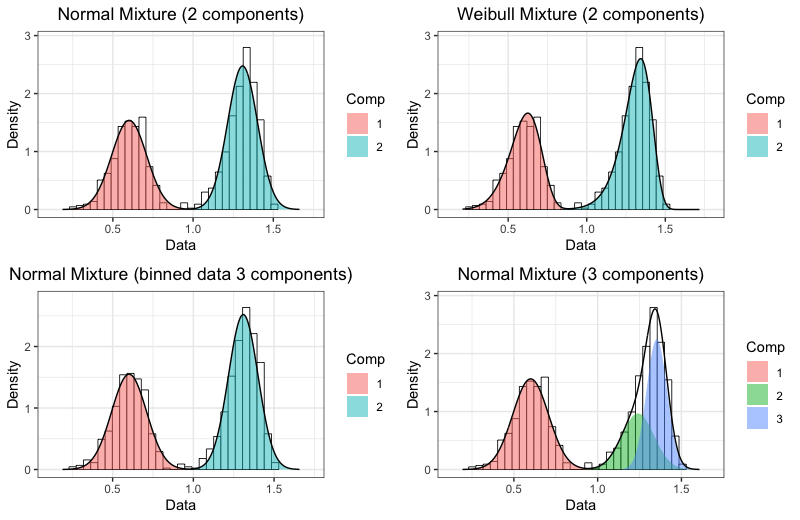
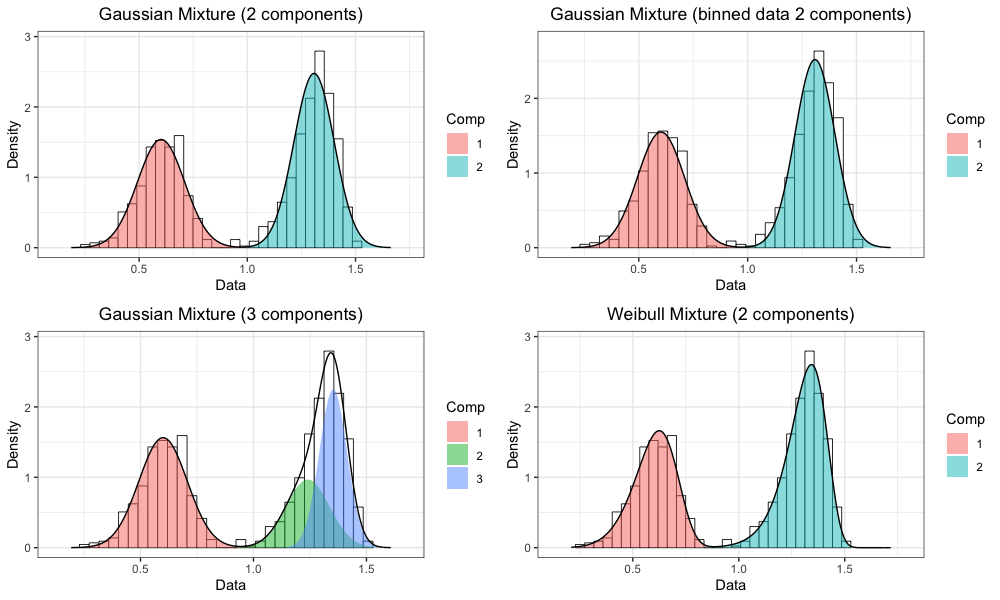
Adding Example and summary section

diff --git a/paper/paper.md b/paper/paper.md
@@ -21,9 +21,9 @@ R programming language [@R] provides a rich collection of packages for building 
 
 -   `mixfit()` performs maximum likelihood estimation (MLE) for finite mixture models for Gaussian, Weibull, Gamma and Log-normal distribution via EM algorithm [@dempster1977]. The model fitting is accelerated via package `Rcpp` [@rcpp].
 
--   `select()` selects the best model from a series of mixture models with different number of components using Bayesian Information Criterion (BIC). As studied in @steele2010, BIC achieves the best performance in mixture model selection compared to other information criteria.
+-   `select()` selects the best model from a series of mixture models with different number of components using Bayesian Information Criterion (BIC). @steele2010 show that BIC achieves the best performance in mixture model selection compared to other information criteria.
 
--   `bs.test()` performs the likelihood ratio test by parametric bootstrapping [@efron1994] for two mixture models from the same distribution family but with different number of components.
+-   `bs.test()` performs the likelihood ratio test (LRT) by parametric bootstrapping [@efron1994] for two mixture models from the same distribution family but with different number of components.
 
 `mixR` also contains the following additional features.
 
@@ -33,49 +33,57 @@ R programming language [@R] provides a rich collection of packages for building 
 
 # Examples
 
-We demonstrate how to use `mixR` for mixture model fitting and model selection.
+We demonstrate how to use `mixR` for fitting finite mixture models and model selection using BIC and bootstrap LRT.
 
 ## Model fitting
 
+We fit the following four mixture models to a data set with 1000 random data points generated from a Weibull mixture model with two components.
+
+-   Gaussian mixture with two components (`mod1`)
+-   Gaussian mixture with two components to the data binned from the raw data (`mod2`)
+-   Gaussian mixture with three components (`mod3`)
+-   Weibull mixture with two components (`mod4`)
+
+\ref{fig:plot1} shows the above four mixture models, from which we see that binning does not cause much information loss and we can get similar fitted results from raw data and binned data. This is usually the case when we have at least moderate data size and the underlying mixture model is not too complex (e.g., too many components). A benefit of binning is it reduces the computation significantly for large data, especially when conducting bootstrap LRT which is computation intensive. Another thing we observe from \ref{fig;plot1} is Gaussian mixture model can provide a good fit for non-Gaussian data but the number of mixture components tends to be overestimated when the actual distribution is skewed.
+
 ```{r}
 library(mixR)
-library(gridExtra)
+
 set.seed(101)
 x <- rmixweibull(1000, c(0.4, 0.6), c(0.6, 1.3), c(0.1, 0.1))
-
-# fit a Normal mixture model with 2 components
-mod1 <- mixfit(x, ncomp = 2)
-p1 <- plot(mod1, title = 'Normal Mixture (2 components)')
-
-# fit a Weibull mixture model with 2 components
-mod2 <- mixfit(x, ncomp = 2, family = 'weibull')
-p2 <- plot(mod2, title = 'Weibull Mixture (2 components)')
-
-# fit a Normal mixture model after binning the raw data
 x_binned <- bin(x, brks = seq(min(x), max(x), length = 30))
-mod3 <- mixfit(x_binned, ncomp = 2)
-p3 <- plot(mod3, title = 'Normal Mixture (binned data 3 components)')
 
-# fitting a Normal mixture model with 3 components
-mod4 <- mixfit(x, ncomp = 3)
-p4 <- plot(mod4, title = 'Normal Mixture (3 components)')
+mod1 <- mixfit(x, ncomp = 2)
+mod2 <- mixfit(x_binned, ncomp = 2)
+mod3 <- mixfit(x, ncomp = 3)
+mod4 <- mixfit(x, ncomp = 2, family = 'weibull')
 
-grid.arrange(p1, p2, p3, p4, nrow = 2)
+p1 <- plot(mod1, title = 'Gaussian Mixture (2 components)')
+p2 <- plot(mod2, title = 'Gaussian Mixture (binned data 2 components)')
+p3 <- plot(mod3, title = 'Gaussian Mixture (3 components)')
+p4 <- plot(mod4, title = 'Weibull Mixture (2 components)')
+gridExtra::grid.arrange(p1, p2, p3, p4, nrow = 2)
 ```
 
-![text \label{fig:plot1}](plot1.png)
+![(top left) The fitted Gaussian mixture with two components; (top right) The fitted Gaussian mixture with two components to the data binned from the raw data; (bottom left) The fitted Gaussian mixture with three components; (bottom right) The fitted Weibull mixture with two components. \label{fig:plot1}](plot1.png)
 
+## Model selection
 
-## Modeling selection
+\ref{fig:plot2} shows that by using BIC, the best Gaussian mixture model has three components and unequal variances for each component while the best Weibull mixture model has two components. The bootstrap LRT with $H_0: g=2$ against $H_a: g=3$ for Gaussian mixture models (using the default 100 bootstrap iterations) returns a p-value of zero, showing that Gaussian mixture with three components is significantly better than that with two components. Similarly the same test for Weibull mixture models returns a p-value of 0.82 which is insignificant and indicates Weibull mixture with three components is no better than that with two components.
 
 ```{r}
-par(mfrow = c(2, 2))
 mod_selection_gaussian = select(x, ncomp = 2:4)
 mod_selection_weibull = select(x, ncomp = 2:4, family = 'weibull')
+b1 <- bs.test(x, ncomp = c(2, 3))
+b2 <- bs.test(x, ncomp = c(2, 3), family = 'weibull')
 
-b1 = bs.test(x, ncomp = c(2, 3))
-b2 = bs.test(x, ncomp = c(2, 3), family = 'weibull')
+b1$pvalue
+## [1] 0
 
+b2$pvalue
+## [1] 0.82
+
+par(mfrow = c(2, 2))
 plot(mod_selection_gaussian)
 plot(mod_selection_weibull, main="Weibull Mixture Model Selection by BIC")
 plot(b1, main = "Bootstrap LRT for Gaussian Mixture Models\n (g = 2 vs g = 3)",
@@ -84,10 +92,10 @@ plot(b2, main = "Bootstrap LRT for Weibull Mixture Models\n (g = 2 vs g = 3)",
      xlab = 'Bootstrap Test Statistics')
 ```
 
-![text \label{fig:plot2}](plot2.png)
-
+![(top left) Gaussian mixture model selection using BIC. UV stands for unequal variances for each mixture components and EV stands for equal variance; (top right) Weibull mixture model selection using BIC; (bottom left) Bootstrap LRT with $H_0: g=2$ against $H_a: g=3$ for Gaussian mixture models; (bottom right) Bootstrap LRT with $H_0: g=2$ against $H_a: g=3$ for Weibull mixture models \label{fig:plot2}](plot2.png)
 
 # Summary
 
+`mixR` unifies the interface for fitting and comparing finite mixture models for both raw data and binned data for families including Gaussian, Weibull, Gamma and Log-normal. The package also provide features for generating random numbers from mixture models, conversion of parameters for Weibull and Gamma models, and model visualization in `ggplot2`. The model fitting process is accelerated by `Rcpp`.
 
 # References
